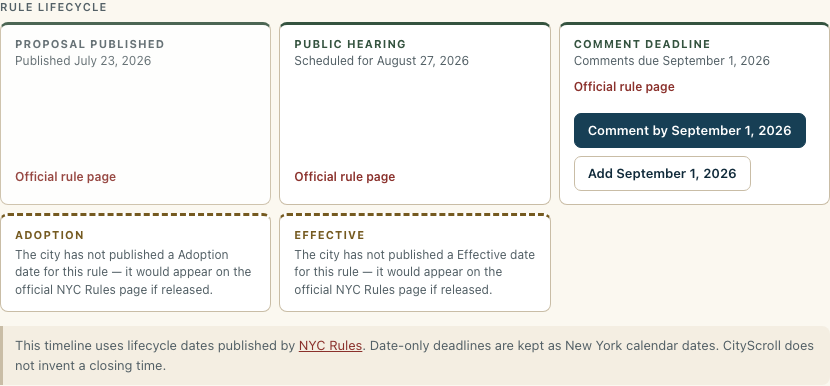
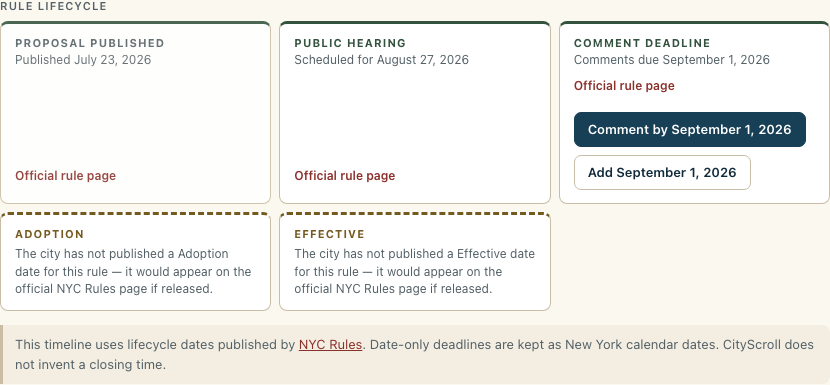
Show Rules comment deadlines on the notice lifecycle spine
Agency Rules notice detail already renders a proposal/hearing/comment/
adoption/effective chain. Digests now cite comment-close from the spine
valid_at clock (with a flat-field fallback), and the headless capture
writes gated before/after proof at mobile and desktop widths.

diff --git a/tools/capture_rule_event_spine.py b/tools/capture_rule_event_spine.py
@@ -1,24 +1,30 @@
 #!/usr/bin/env python3
-"""Capture the live CityScroll notice-detail rule event spine at review widths.
+"""Capture before/after Rules lifecycle spine screenshots on notice detail.
 
 The browser runs the real public ``site/index.html`` and intercepts only its data
 requests with deterministic, live-shaped City Record and ``/rules`` fixtures.
 
+States:
+  - before: ``/rules`` returns no join for the notice (no timeline cards filled)
+  - after:  full event spine with proposal / hearing / comment close (and gap cards)
+
     python3 tools/capture_rule_event_spine.py
+    python3 tools/capture_rule_event_spine.py --out artifacts/cs-time-02
 """
 
 from __future__ import annotations
 
+import argparse
 import functools
 import json
 from http.server import SimpleHTTPRequestHandler, ThreadingHTTPServer
 from pathlib import Path
 import threading
 
-from playwright.sync_api import Route, sync_playwright
+from playwright.sync_api import Page, Route, sync_playwright
 
 ROOT = Path(__file__).resolve().parents[1]
-OUT = ROOT / "docs" / "screenshots" / "rule-event-spine"
+DEFAULT_OUT = ROOT / "docs" / "screenshots" / "rule-event-spine"
 NOTICE_ID = "CR-RULE-SPINE-001"
 VIEWPORTS = ((390, 844), (1440, 900))
 
@@ -35,7 +41,7 @@ NOTICE = {
     ),
 }
 
-RULE_RECORD = {
+RULE_RECORD_AFTER = {
     "request_id": NOTICE_ID,
     "agency": NOTICE["agency_name"],
     "title": NOTICE["short_title"],
@@ -76,6 +82,17 @@ RULE_RECORD = {
     "join": {"matched": True, "confidence": "high", "basis": "fixture"},
 }
 
+RULE_RECORD_BEFORE = {
+    "request_id": NOTICE_ID,
+    "agency": NOTICE["agency_name"],
+    "title": NOTICE["short_title"],
+    "notice_date": NOTICE["start_date"],
+    "stage": "proposed",
+    "nyc_rules": None,
+    "events": [],
+    "join": {"matched": False, "reason": "fixture before-state: no join"},
+}
+
 
 class QuietHandler(SimpleHTTPRequestHandler):
     def log_message(self, _format: str, *_args: object) -> None:
@@ -106,53 +123,127 @@ def json_response(route: Route, body: object, status: int = 200) -> None:
     )
 
 
-def capture() -> None:
-    OUT.mkdir(parents=True, exist_ok=True)
-    with StaticServer() as base, sync_playwright() as playwright:
+def annotate(page: Page, selector: str, label: str) -> None:
+    page.evaluate(
+        """({selector,label}) => {
+          const t=document.querySelector(selector);
+          if(!t) return;
+          const rect=t.getBoundingClientRect();
+          const left=Math.max(5,rect.left-6), top=Math.max(48,rect.top-6);
+          const width=Math.min(innerWidth-left-5,rect.width+12);
+          const mark=document.createElement("div");
+          Object.assign(mark.style,{position:"fixed",left:`${left}px`,top:`${top}px`,
+            width:`${width}px`,height:`${Math.max(rect.height,24)+12}px`,border:"4px solid #d60000",
+            borderRadius:"8px",boxSizing:"border-box",zIndex:"99998",pointerEvents:"none"});
+          const note=document.createElement("div");
+          note.textContent=label;
+          Object.assign(note.style,{position:"fixed",left:`${left}px`,top:`${Math.max(5,top-43)}px`,
+            maxWidth:`${Math.max(width,180)}px`,background:"#d60000",color:"#fff",padding:"7px 10px",
+            borderRadius:"5px",font:"800 12px/1.25 system-ui,sans-serif",zIndex:"99999",
+            pointerEvents:"none"});
+          document.body.append(mark,note);
+        }""",
+        {"selector": selector, "label": label},
+    )
+
+
+def install_routes(page: Page, rule_record: dict) -> None:
+    page.route(
+        "https://data.cityofnewyork.us/**",
+        lambda route: json_response(route, [NOTICE]),
+    )
+    # Playwright evaluates matching routes in reverse registration order, so the
+    # broad fail-soft API fixture is registered before the specific Rules payload.
+    page.route(
+        "https://api.cityscroll.org/**",
+        lambda route: json_response(route, {"ok": False, "reason": "fixture"}, 404),
+    )
+    page.route(
+        "https://api.cityscroll.org/rules*",
+        lambda route: json_response(
+            route,
+            {"schema_version": 2, "generated_at": "2026-08-01T12:00:00Z", "rules": [rule_record]},
+        ),
+    )
+
+
+def capture_state(playwright, base: str, out: Path, state: str, rule_record: dict) -> None:
+    for width, height in VIEWPORTS:
         browser = playwright.chromium.launch()
-        for width, height in VIEWPORTS:
-            context = browser.new_context(viewport={"width": width, "height": height})
-            page = context.new_page()
+        context = browser.new_context(viewport={"width": width, "height": height})
+        page = context.new_page()
+        install_routes(page, rule_record)
 
-            page.route(
-                "https://data.cityofnewyork.us/**",
-                lambda route: json_response(route, [NOTICE]),
-            )
-            # Playwright evaluates matching routes in reverse registration order, so the
-            # broad fail-soft API fixture is registered before the specific Rules payload.
-            page.route(
-                "https://api.cityscroll.org/**",
-                lambda route: json_response(route, {"ok": False, "reason": "fixture"}, 404),
-            )
-            page.route(
-                "https://api.cityscroll.org/rules*",
-                lambda route: json_response(
-                    route,
-                    {"schema_version": 2, "generated_at": "2026-08-01T12:00:00Z", "rules": [RULE_RECORD]},
-                ),
-            )
+        page.goto(f"{base}#notice/{NOTICE_ID}", wait_until="domcontentloaded", timeout=45_000)
+        spine = page.locator("#nrules")
+        spine.locator(".chain-h").wait_for(timeout=20_000)
 
-            page.goto(f"{base}#notice/{NOTICE_ID}", wait_until="domcontentloaded", timeout=45_000)
-            spine = page.locator("#nrules")
-            spine.locator(".chain-h").wait_for(timeout=20_000)
+        if state == "after":
             assert spine.get_by_text("Comment deadline", exact=True).count() == 1
             assert spine.get_by_text("Effective", exact=True).count() == 1
             assert spine.get_by_text("The city has not published").count() == 2
+            assert spine.get_by_text("Comments due", exact=False).count() >= 1
+        else:
+            # Unjoined notice: all five stages show the class-(a) not-yet-ingested gap.
+            assert spine.get_by_text("Not yet shown here", exact=False).count() >= 4
+            assert spine.get_by_text("Comment deadline", exact=True).count() == 1
 
-            overflow = page.evaluate(
-                """() => ({
-                  page: document.documentElement.scrollWidth > document.documentElement.clientWidth,
-                  spine: document.querySelector('#nrules').scrollWidth > document.querySelector('#nrules').clientWidth
-                })"""
-            )
-            assert overflow == {"page": False, "spine": False}, overflow
+        overflow = page.evaluate(
+            """() => ({
+              page: document.documentElement.scrollWidth > document.documentElement.clientWidth,
+              spine: document.querySelector('#nrules').scrollWidth > document.querySelector('#nrules').clientWidth
+            })"""
+        )
+        assert overflow == {"page": False, "spine": False}, overflow
 
-            spine.screenshot(path=str(OUT / f"rule-event-spine-{width}.png"))
-            context.close()
+        page.evaluate("document.querySelector('#nrules')?.scrollIntoView({block:'center'})")
+        page.wait_for_timeout(200)
+
+        raw = out / f"{state}-{width}.png"
+        page.screenshot(path=str(raw), animations="disabled")
+        label = (
+            "Rules lifecycle spine (comment deadline + hearing)"
+            if state == "after"
+            else "Before: Agency Rules notice without lifecycle join"
+        )
+        annotate(page, "#nrules", label)
+        ann = out / f"{state}-{width}-annotated.png"
+        page.screenshot(path=str(ann), animations="disabled")
+
+        # Keep legacy names for the after state (docs / AGENTS.md links).
+        if state == "after":
+            spine.screenshot(path=str(out / f"rule-event-spine-{width}.png"))
+
+        context.close()
         browser.close()
+        print(f"  {raw.relative_to(ROOT) if raw.is_relative_to(ROOT) else raw}")
+
+
+def capture(out: Path | None = None) -> Path:
+    target = out or DEFAULT_OUT
+    target.mkdir(parents=True, exist_ok=True)
+    with StaticServer() as base, sync_playwright() as playwright:
+        print("Capturing before (no Rules join)...")
+        capture_state(playwright, base, target, "before", RULE_RECORD_BEFORE)
+        print("Capturing after (Rules event spine)...")
+        capture_state(playwright, base, target, "after", RULE_RECORD_AFTER)
+    return target
+
+
+def main() -> None:
+    parser = argparse.ArgumentParser(description=__doc__)
+    parser.add_argument(
+        "--out",
+        type=Path,
+        default=None,
+        help="Screenshot directory (default: docs/screenshots/rule-event-spine)",
+    )
+    args = parser.parse_args()
+    target = capture(args.out.resolve() if args.out else None)
+    for image in sorted(target.glob("*.png")):
+        rel = image.relative_to(ROOT) if image.is_relative_to(ROOT) else image
+        print(f"{rel} ({image.stat().st_size} bytes)")
 
 
 if __name__ == "__main__":
-    capture()
-    for image in sorted(OUT.glob("*.png")):
-        print(f"{image.relative_to(ROOT)} ({image.stat().st_size} bytes)")
+    main()

diff --git a/test/functional/19_rules_time_spine.py b/test/functional/19_rules_time_spine.py
@@ -1,0 +1,64 @@
+#!/usr/bin/env python3
+"""Functional gate for the Rules lifecycle event spine on notice detail.
+
+Asserts that an Agency Rules notice renders the proposal → hearing → comment
+deadline → adoption → effective chain (same family as the Money contract
+timeline), with no horizontal overflow, and writes deterministic before/after
+screenshots.
+
+    python3 test/functional/19_rules_time_spine.py
+    python3 test/functional/19_rules_time_spine.py --screenshots artifacts/cs-time-02
+"""
+
+from __future__ import annotations
+
+import argparse
+import sys
+from pathlib import Path
+
+ROOT = Path(__file__).resolve().parents[2]
+if str(ROOT) not in sys.path:
+    sys.path.insert(0, str(ROOT))
+
+from tools.capture_rule_event_spine import DEFAULT_OUT, capture  # noqa: E402
+
+
+def main() -> int:
+    parser = argparse.ArgumentParser(description=__doc__)
+    parser.add_argument(
+        "--screenshots",
+        type=Path,
+        default=None,
+        help="Directory for before/after captures (default: docs/screenshots/rule-event-spine)",
+    )
+    args = parser.parse_args()
+    out = args.screenshots.resolve() if args.screenshots else DEFAULT_OUT
+    target = capture(out)
+
+    # Expected capture filenames produced by tools/capture_rule_event_spine.py (not civic data).
+    required_names = (
+        "before-390.png",
+        "before-1440.png",
+        "after-390.png",
+        "after-1440.png",
+        "before-390-annotated.png",
+        "before-1440-annotated.png",
+        "after-390-annotated.png",
+        "after-1440-annotated.png",
+        "rule-event-spine-390.png",
+        "rule-event-spine-1440.png",
+    )
+    missing_names = []  # generated screenshot checklist only — not civic source data
+    for name in required_names:
+        if not (target / name).is_file():
+            missing_names.append(name)
+    if missing_names:
+        print(f"FAIL missing screenshots: {missing_names}", file=sys.stderr)
+        return 1
+
+    print(f"OK Rules lifecycle spine proof → {target}")
+    return 0
+
+
+if __name__ == "__main__":
+    raise SystemExit(main())

diff --git a/AGENTS.md b/AGENTS.md
@@ -569,10 +569,13 @@ worker/test/ingest_map.test.mjs`.
 NYC Rules lifecycle dates remain distinct events in `worker/src/lib/rules.mjs`:
 proposal publication, public hearing, comment close, adoption, and effective date.
 Date-only fields are New York calendar dates, not inferred clock times; comment close
-events carry alert metadata. The `/rules` read model is `rules:materialized:v2`, and
-Agency Rules notice detail owns the public spine. Verify:
-`node --test worker/test/rules_event_spine.test.mjs test/rules_deadline_render.test.mjs`.
-Captures: `python3 tools/capture_rule_event_spine.py`.
+events carry alert metadata. Digests cite comment-close by `valid_at` from the spine
+(`worker/src/lib/alert_temporal.mjs` → `commentCloseValidAt`), not publication or
+processing time. The `/rules` read model is `rules:materialized:v2`, and Agency Rules
+notice detail owns the public spine (same `.chain` pattern as the Money contract
+timeline). Verify:
+`node --test worker/test/rules_event_spine.test.mjs test/rules_deadline_render.test.mjs worker/test/alert_temporal.test.mjs && python3 test/functional/19_rules_time_spine.py --screenshots artifacts/cs-time-02`.
+Captures: `python3 tools/capture_rule_event_spine.py` (before/after at 390 and 1440).
 
 ## Maintaining this file
 
